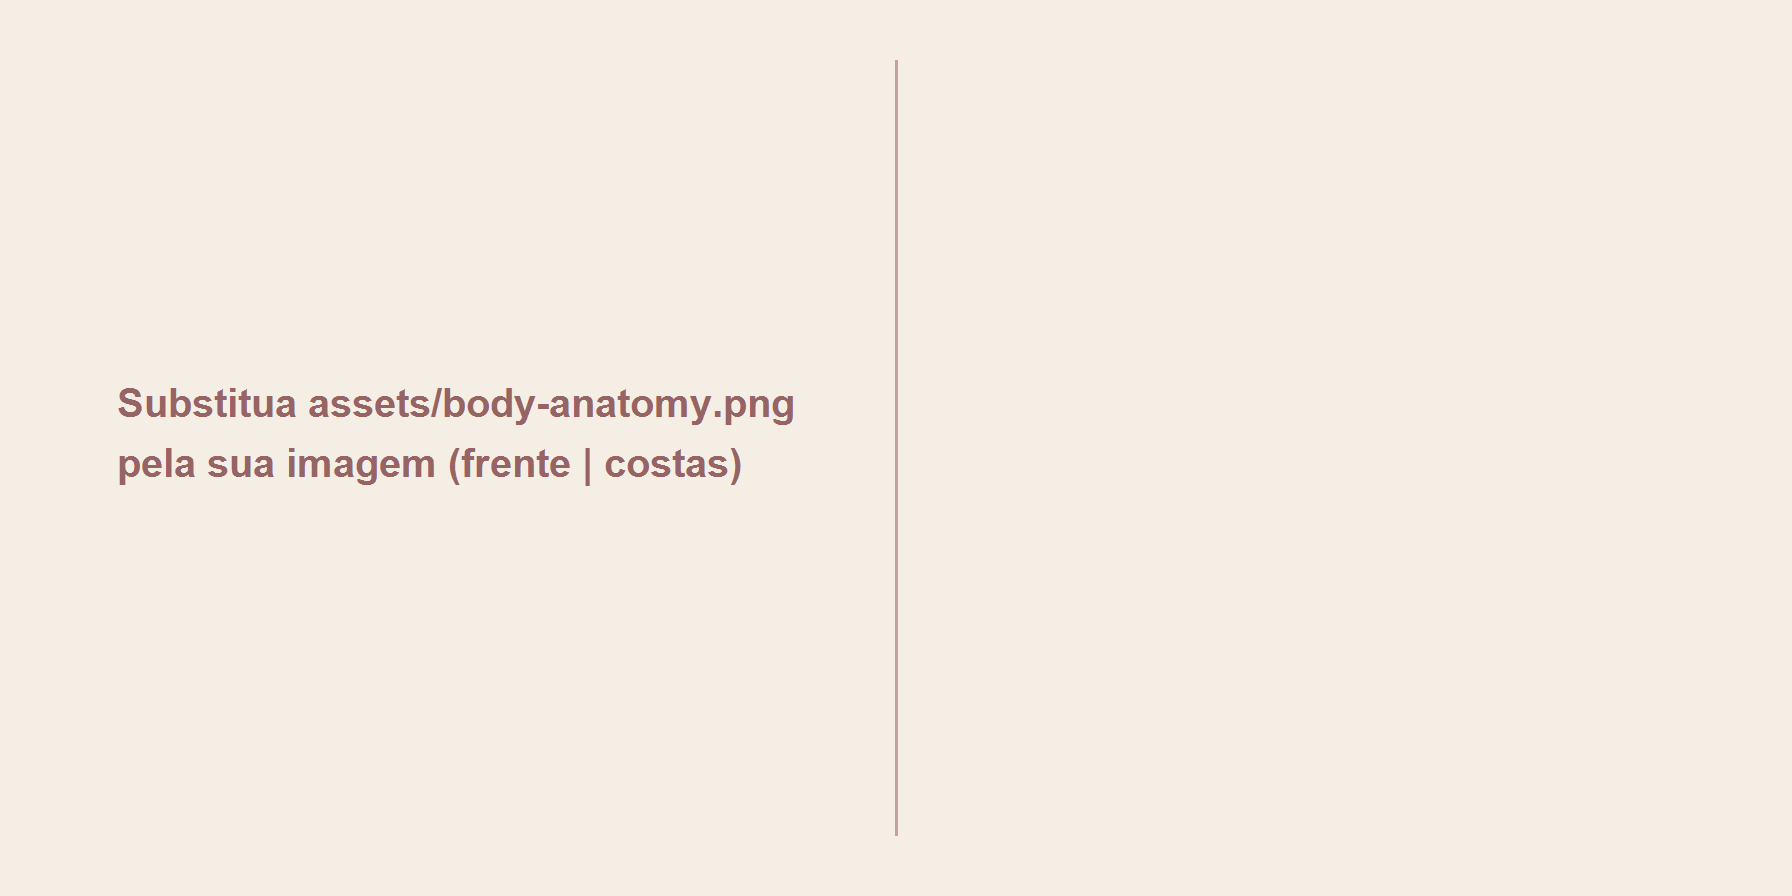
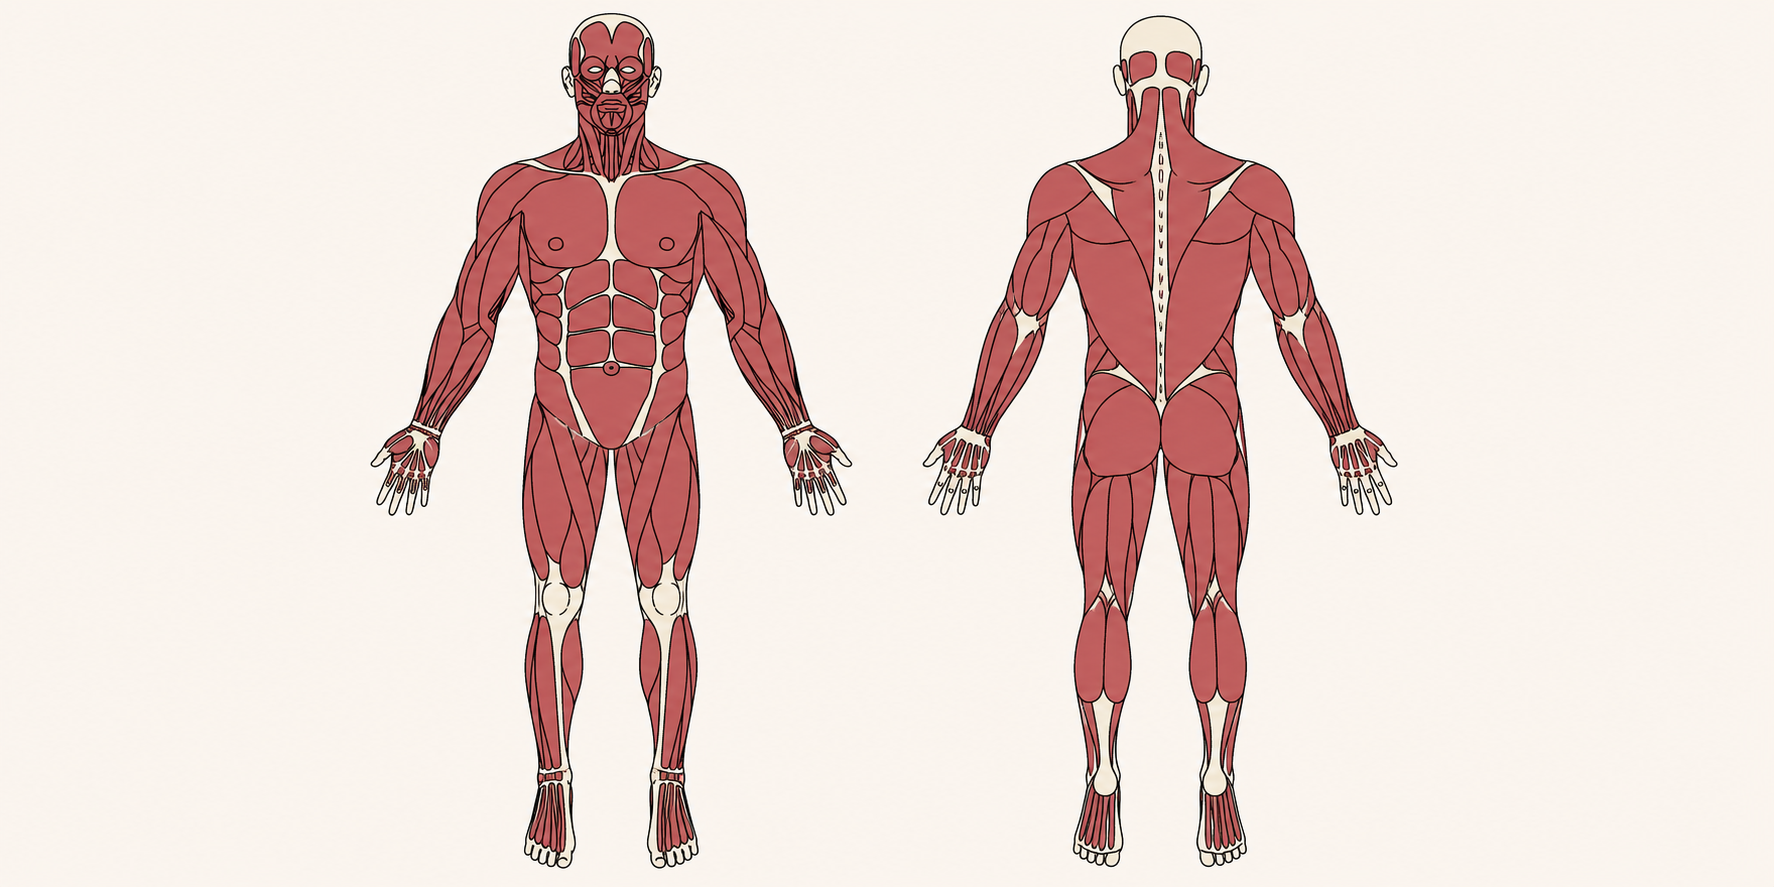
Real anatomy image, check-in pain name-picker, submissions graph on profile + home
- Body map now uses the user's actual anatomy illustration (body-anatomy.png),
  hotspots re-calibrated to it.
- Check-in (+) pain: replaced the embedded body with a horizontal, swipeable list
  of region names — tap a region, then pick 0-10; marked regions show their number.
- UserProfile: the submissions radar graph now renders first in the Submissões card
  (above the top-3 bars) so visitors see the chart.
- Home: a Submissões widget card shows the radar and opens the full Submissions
  screen (new HomeNavigator route). tsc clean.

Changed region(s): [[0.062, 0.0, 0.8061, 0.9741]]

diff --git a/mobile/src/components/CheckInSheet.tsx b/mobile/src/components/CheckInSheet.tsx
@@ -22,12 +22,11 @@ import { apiErrorMessage } from '../api/auth';
 import { CheckInSubmission, Visibility, createCheckIn, todayLocalDate } from '../api/checkins';
 import { logPain } from '../api/pain';
 import { uploadMedia } from '../api/posts';
-import { BodyView, bodyRegionLabel, intensityColor } from '../constants/body';
+import { ALL_REGIONS, bodyRegionLabel, intensityColor } from '../constants/body';
 import { SUBMISSIONS } from '../constants/submissions';
 import { t, tf } from '../i18n';
 import { useAuthStore } from '../store/authStore';
 import { palette } from '../theme/theme';
-import BodyMap from './BodyMap';
 
 type Direction = 'HIT' | 'CONCEDED';
 const DURATIONS = [60, 90, 120, 180];
@@ -52,7 +51,6 @@ export default function CheckInSheet({ visible, onClose }: { visible: boolean; o
   const [photo, setPhoto] = useState<{ key: string; uri: string } | null>(null);
   const [uploading, setUploading] = useState(false);
   const [pain, setPain] = useState<Record<string, number>>({});
-  const [painView, setPainView] = useState<BodyView>('front');
   const [painRegion, setPainRegion] = useState<string | null>(null);
 
   const reset = () => {
@@ -66,7 +64,6 @@ export default function CheckInSheet({ visible, onClose }: { visible: boolean; o
     setPhoto(null);
     setPain({});
     setPainRegion(null);
-    setPainView('front');
   };
 
   const pickPhoto = async () => {
@@ -214,24 +211,35 @@ export default function CheckInSheet({ visible, onClose }: { visible: boolean; o
               })}
             </View>
 
-            {/* Pain / injury — logs to the body map */}
+            {/* Pain / injury — slide through regions, pick one, then set 0-10 */}
             <Text style={styles.label}>{t('checkin.pain.title')}</Text>
-            <View style={styles.painToggle}>
-              {(['front', 'back'] as const).map((v) => (
-                <Pressable
-                  key={v}
-                  style={[styles.painTabBtn, painView === v && styles.segBtnOn]}
-                  onPress={() => setPainView(v)}>
-                  <Text style={[styles.segText, painView === v && styles.segTextOn]}>
-                    {t(v === 'front' ? 'body.front' : 'body.back')}
-                  </Text>
-                </Pressable>
-              ))}
-            </View>
-            <View style={{ alignItems: 'center' }}>
-              <BodyMap view={painView} pain={pain} onRegionPress={(r) => setPainRegion(r)} width={150} />
-            </View>
-            {painRegion ? (
+            <Text style={styles.painHint}>
+              {Object.keys(pain).length > 0 ? tf('checkin.pain.added', { n: Object.keys(pain).length }) : t('checkin.pain.hint')}
+            </Text>
+            <ScrollView
+              horizontal
+              showsHorizontalScrollIndicator={false}
+              keyboardShouldPersistTaps="handled"
+              contentContainerStyle={styles.painChips}>
+              {ALL_REGIONS.map((r) => {
+                const intensity = pain[r] ?? 0;
+                const active = intensity > 0;
+                const selected = painRegion === r;
+                return (
+                  <Pressable
+                    key={r}
+                    onPress={() => setPainRegion(selected ? null : r)}
+                    style={[styles.painChip, selected && styles.painChipSelected, active && { borderColor: intensityColor(intensity) }]}>
+                    {active && <View style={[styles.painChipDot, { backgroundColor: intensityColor(intensity) }]} />}
+                    <Text style={[styles.painChipText, (active || selected) && styles.painChipTextOn]} numberOfLines={1}>
+                      {bodyRegionLabel(r)}
+                    </Text>
+                    {active && <Text style={[styles.painChipNum, { color: intensityColor(intensity) }]}>{intensity}</Text>}
+                  </Pressable>
+                );
+              })}
+            </ScrollView>
+            {painRegion && (
               <View style={styles.painPicker}>
                 <Text style={styles.painPickerTitle}>{bodyRegionLabel(painRegion)}</Text>
                 <View style={styles.painScale}>
@@ -253,12 +261,6 @@ export default function CheckInSheet({ visible, onClose }: { visible: boolean; o
                   ))}
                 </View>
               </View>
-            ) : (
-              <Text style={styles.painHint}>
-                {Object.keys(pain).length > 0
-                  ? tf('checkin.pain.added', { n: Object.keys(pain).length })
-                  : t('checkin.pain.hint')}
-              </Text>
             )}
 
             <TextInput
@@ -373,9 +375,14 @@ const styles = StyleSheet.create({
     justifyContent: 'center',
   },
   stepNum: { color: palette.textPrimary, fontSize: 14, fontWeight: 'bold', minWidth: 18, textAlign: 'center' },
-  painToggle: { flexDirection: 'row', alignSelf: 'center', backgroundColor: palette.surfaceVariant, borderRadius: 10, padding: 3, marginTop: 14, marginBottom: 6 },
-  painTabBtn: { paddingVertical: 6, paddingHorizontal: 22, borderRadius: 8 },
-  painPicker: { marginTop: 4 },
+  painChips: { gap: 8, paddingVertical: 6, paddingRight: 8 },
+  painChip: { flexDirection: 'row', alignItems: 'center', gap: 6, paddingHorizontal: 12, paddingVertical: 9, borderRadius: 20, borderWidth: 1, borderColor: palette.outline, backgroundColor: palette.surfaceVariant },
+  painChipSelected: { borderColor: palette.primary, backgroundColor: palette.surface },
+  painChipDot: { width: 8, height: 8, borderRadius: 4 },
+  painChipText: { color: palette.textSecondary, fontSize: 13, fontWeight: '600' },
+  painChipTextOn: { color: palette.textPrimary },
+  painChipNum: { fontWeight: '800', fontSize: 13 },
+  painPicker: { marginTop: 8 },
   painPickerTitle: { color: palette.textPrimary, fontWeight: '700', textAlign: 'center', marginBottom: 8 },
   painScale: { flexDirection: 'row', flexWrap: 'wrap', gap: 5, justifyContent: 'center' },
   painScaleBtn: { width: 26, height: 32, borderRadius: 7, alignItems: 'center', justifyContent: 'center' },

diff --git a/mobile/src/constants/body.ts b/mobile/src/constants/body.ts
@@ -11,16 +11,16 @@ export const BODY_NODES: Record<BodyView, RegionNode[]> = {
     { key: 'neck', x: 50, y: 14 },
     { key: 'shoulder_left', x: 33, y: 20 },
     { key: 'shoulder_right', x: 67, y: 20 },
-    { key: 'chest', x: 50, y: 25 },
-    { key: 'ribs', x: 50, y: 36 },
-    { key: 'elbow_left', x: 24, y: 36 },
-    { key: 'elbow_right', x: 76, y: 36 },
-    { key: 'wrist_left', x: 17, y: 50 },
-    { key: 'wrist_right', x: 83, y: 50 },
-    { key: 'hip_left', x: 43, y: 48 },
-    { key: 'hip_right', x: 57, y: 48 },
-    { key: 'knee_left', x: 44, y: 69 },
-    { key: 'knee_right', x: 56, y: 69 },
+    { key: 'chest', x: 50, y: 24 },
+    { key: 'ribs', x: 50, y: 34 },
+    { key: 'elbow_left', x: 25, y: 37 },
+    { key: 'elbow_right', x: 75, y: 37 },
+    { key: 'wrist_left', x: 17, y: 53 },
+    { key: 'wrist_right', x: 83, y: 53 },
+    { key: 'hip_left', x: 43, y: 47 },
+    { key: 'hip_right', x: 57, y: 47 },
+    { key: 'knee_left', x: 44, y: 67 },
+    { key: 'knee_right', x: 56, y: 67 },
     { key: 'ankle_left', x: 45, y: 90 },
     { key: 'ankle_right', x: 55, y: 90 },
   ],
@@ -40,6 +40,31 @@ export const BODY_NODES: Record<BodyView, RegionNode[]> = {
     { key: 'ankle_right', x: 55, y: 90 },
   ],
 };
+
+// Flat, top-to-bottom ordered list of every region (for the check-in name picker).
+export const ALL_REGIONS: string[] = [
+  'neck',
+  'shoulder_left',
+  'shoulder_right',
+  'chest',
+  'ribs',
+  'upper_back',
+  'lower_back',
+  'elbow_left',
+  'elbow_right',
+  'wrist_left',
+  'wrist_right',
+  'hip_left',
+  'hip_right',
+  'hamstring_left',
+  'hamstring_right',
+  'knee_left',
+  'knee_right',
+  'calf_left',
+  'calf_right',
+  'ankle_left',
+  'ankle_right',
+];
 
 const LABELS: Record<string, { pt: string; en: string }> = {
   neck: { pt: 'Pescoço', en: 'Neck' },

diff --git a/mobile/src/screens/HomeScreen.tsx b/mobile/src/screens/HomeScreen.tsx
@@ -13,11 +13,14 @@ import { TimelineItem, getJourney, logCompetition } from '../api/activity';
 import { Stats, createQuickCheckIn, getStats, todayLocalDate } from '../api/checkins';
 import { getMyGym } from '../api/gyms';
 import { resolveMediaUrl } from '../api/posts';
+import { getUserSubmissions } from '../api/submissions';
 import { getUserProfile } from '../api/users';
 import BeltVisual from '../components/BeltVisual';
 import Skeleton from '../components/Skeleton';
 import MilestoneBar from '../components/MilestoneBar';
+import SubmissionRadar from '../components/SubmissionRadar';
 import { rankBarColorFor } from '../constants/belts';
+import { SUBMISSIONS } from '../constants/submissions';
 import { STREAK_MILESTONES, TRAINING_MILESTONES, WEEK_MILESTONES, nextMilestone } from '../constants/milestones';
 import { t, tf } from '../i18n';
 import { useAuthStore } from '../store/authStore';
@@ -103,6 +106,12 @@ export default function HomeScreen() {
   const [compOpen, setCompOpen] = useState(false);
 
   const stats = useQuery({ queryKey: ['stats'], queryFn: getStats });
+  const subMonth = todayLocalDate().slice(0, 7);
+  const submissions = useQuery({
+    queryKey: ['userSubmissions', user?.id ?? 0, subMonth, 'HIT'],
+    queryFn: () => getUserSubmissions(user?.id ?? 0, subMonth, 'HIT'),
+    enabled: !!user?.id,
+  });
   const gym = useQuery({ queryKey: ['myGym'], queryFn: getMyGym });
   const journey = useQuery({ queryKey: ['journey'], queryFn: getJourney });
   const profile = useQuery({
@@ -305,6 +314,23 @@ export default function HomeScreen() {
               <Text style={styles.cardSub}>{t('body.card.subtitle')}</Text>
             </View>
             <MaterialCommunityIcons name="chevron-right" size={20} color={palette.textSecondary} />
+          </Pressable>
+
+          {/* Submissions widget → full Submissions screen */}
+          <Pressable style={styles.card} onPress={() => navigation.navigate('Submissions', { userId: user?.id })}>
+            <View style={styles.sectionHead}>
+              <Text style={styles.sectionTitle}>{t('profile.submissions')}</Text>
+              <MaterialCommunityIcons name="chevron-right" size={18} color={palette.textSecondary} />
+            </View>
+            <View style={{ alignItems: 'center', marginTop: 4 }}>
+              <SubmissionRadar
+                axes={SUBMISSIONS.map((sb) => ({
+                  label: sb.label,
+                  value: submissions.data?.items.find((i) => i.submission === sb.key)?.count ?? 0,
+                }))}
+                color={palette.primary}
+              />
+            </View>
           </Pressable>
 
           {/* 4b. Weekly training load + estimated calories */}

diff --git a/mobile/src/screens/UserProfileScreen.tsx b/mobile/src/screens/UserProfileScreen.tsx
@@ -13,6 +13,7 @@ import { getGymMembers, getMyGym, promoteMember } from '../api/gyms';
 import { resolveMediaUrl } from '../api/posts';
 import { todayLocalDate } from '../api/checkins';
 import { getUserSubmissions } from '../api/submissions';
+import SubmissionRadar from '../components/SubmissionRadar';
 import {
   UserProfile,
   followUser,
@@ -20,7 +21,7 @@ import {
   getUserProfile,
   unfollowUser,
 } from '../api/users';
-import { submissionStyle } from '../constants/submissions';
+import { SUBMISSIONS, submissionStyle } from '../constants/submissions';
 import BeltVisual, { formatStripes } from '../components/BeltVisual';
 import ImageLightbox from '../components/ImageLightbox';
 import Skeleton from '../components/Skeleton';
@@ -314,7 +315,17 @@ export default function UserProfileScreen() {
             {(submissions.data?.items.length ?? 0) === 0 ? (
               <Text style={styles.muted}>{t('submissions.empty')}</Text>
             ) : (
-              submissions.data!.items.slice(0, 3).map((it) => {
+              <>
+                <View style={{ alignItems: 'center', marginBottom: 8 }}>
+                  <SubmissionRadar
+                    axes={SUBMISSIONS.map((sb) => ({
+                      label: sb.label,
+                      value: submissions.data!.items.find((i) => i.submission === sb.key)?.count ?? 0,
+                    }))}
+                    color={palette.primary}
+                  />
+                </View>
+                {submissions.data!.items.slice(0, 3).map((it) => {
                 const s = submissionStyle(it.submission);
                 const maxC = submissions.data!.items[0].count || 1;
                 return (
@@ -329,7 +340,8 @@ export default function UserProfileScreen() {
                     <Text style={styles.snapCount}>{it.count}</Text>
                   </View>
                 );
-              })
+                })}
+              </>
             )}
           </View>
         </>

diff --git a/mobile/src/navigation/HomeNavigator.tsx b/mobile/src/navigation/HomeNavigator.tsx
@@ -15,6 +15,7 @@ import NotificationsScreen from '../screens/NotificationsScreen';
 import PersonalTechniqueEditorScreen from '../screens/PersonalTechniqueEditorScreen';
 import PrivacyScreen from '../screens/PrivacyScreen';
 import SettingsScreen from '../screens/SettingsScreen';
+import SubmissionsScreen from '../screens/SubmissionsScreen';
 import TechniqueDetailScreen from '../screens/TechniqueDetailScreen';
 import TechniquesScreen from '../screens/TechniquesScreen';
 import { palette } from '../theme/theme';
@@ -35,6 +36,7 @@ export type HomeStackParamList = {
   PersonalTechniqueEditor: { technique?: PersonalTechnique } | undefined;
   Donations: undefined;
   BodyMap: undefined;
+  Submissions: { userId?: number } | undefined;
 };
 
 const Stack = createNativeStackNavigator<HomeStackParamList>();
@@ -76,6 +78,7 @@ export default function HomeNavigator() {
       />
       <Stack.Screen name="Donations" component={DonationsScreen} options={{ title: t('donations.title') }} />
       <Stack.Screen name="BodyMap" component={BodyMapScreen} options={{ title: t('body.title') }} />
+      <Stack.Screen name="Submissions" component={SubmissionsScreen} options={{ title: t('submissions.title') }} />
     </Stack.Navigator>
   );
 }

diff --git a/mobile/src/i18n/en.ts b/mobile/src/i18n/en.ts
@@ -734,6 +734,6 @@ export const en: Record<TranslationKey, string> = {
   'body.month.days': '{n} days',
   'body.peak': 'peak {n}/10',
   'checkin.pain.title': 'Any pain?',
-  'checkin.pain.hint': 'Tap a region to log it (shows on your body map).',
+  'checkin.pain.hint': 'Swipe, tap the sore region and pick 0–10.',
   'checkin.pain.added': '{n} region(s) marked',
 };

diff --git a/mobile/src/i18n/pt.ts b/mobile/src/i18n/pt.ts
@@ -732,7 +732,7 @@ export const pt = {
   'body.month.days': '{n} dias',
   'body.peak': 'pico {n}/10',
   'checkin.pain.title': 'Sentiu alguma dor?',
-  'checkin.pain.hint': 'Toque numa região para registrar (aparece no mapa corporal).',
+  'checkin.pain.hint': 'Deslize, toque na região dolorida e escolha de 0 a 10.',
   'checkin.pain.added': '{n} região(ões) marcada(s)',
 } as const;
 